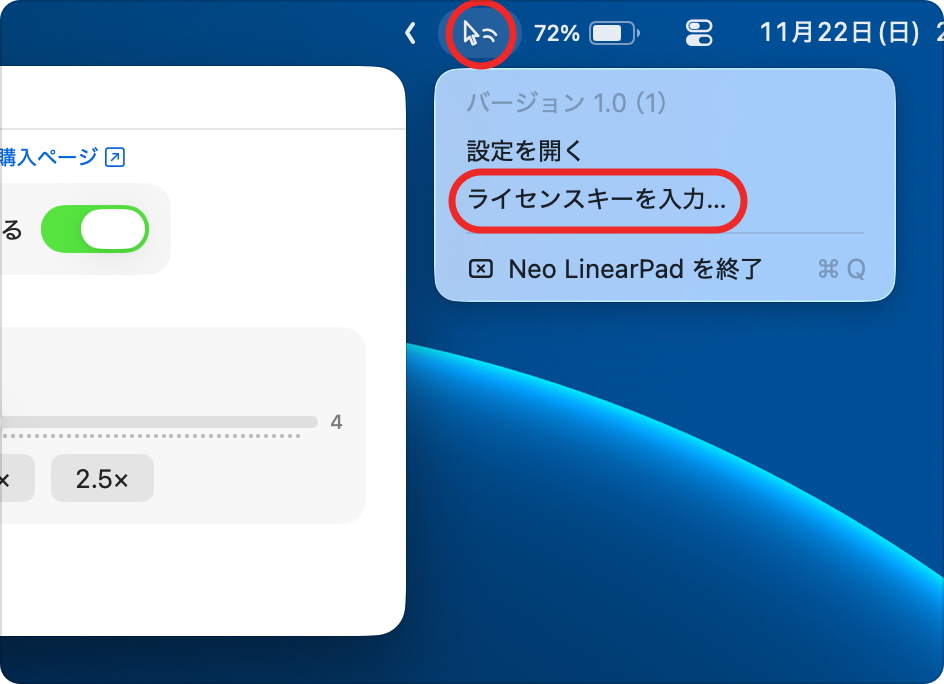
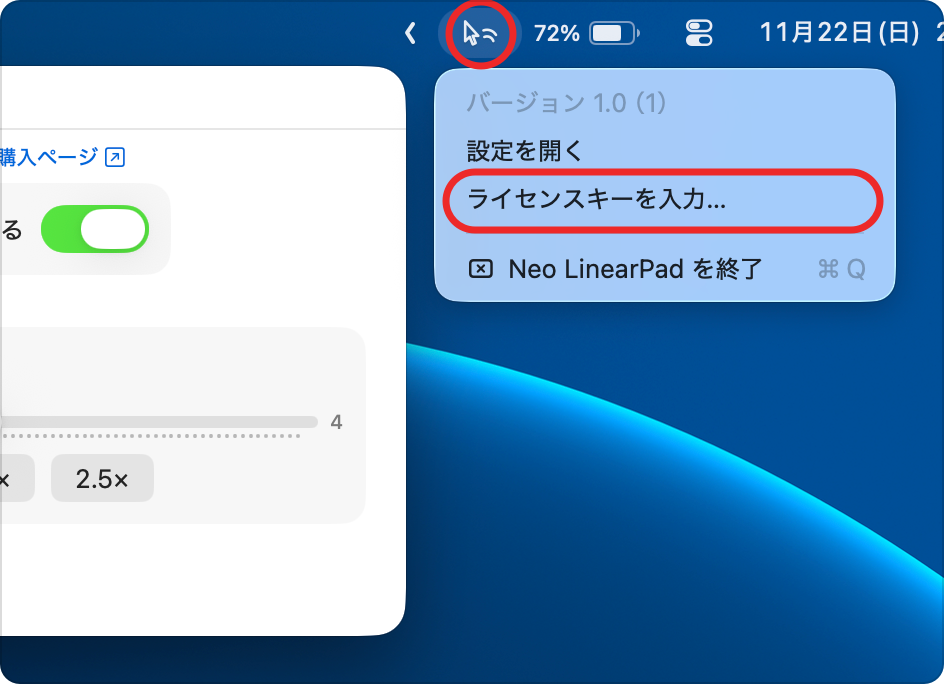
Right-click menu image: box the whole Enter License Key row

Changed region(s): [[0.768, 0.2456, 0.9523, 0.3684], [0.4608, 0.2456, 0.5222, 0.3377]]

diff --git a/ja/index.html b/ja/index.html
@@ -84,7 +84,7 @@
               <img src="../assets/guide/buy-4-done.png?v=2" alt="「ライセンスが有効になりました」の表示" loading="lazy">
             </li>
             <li>うまくいかないときは、メニューバーのアイコンを右クリックして「ライセンスキーを入力…」を選び、メールに届いたキーを貼り付けて「有効化」を押します。
-              <img src="../assets/guide/buy-5-menu.png?v=2" alt="右クリックメニューの「ライセンスキーを入力…」" loading="lazy">
+              <img src="../assets/guide/buy-5-menu.png?v=3" alt="右クリックメニューの「ライセンスキーを入力…」" loading="lazy">
             </li>
           </ol>
         </div>

diff --git a/ja/thanks.html b/ja/thanks.html
@@ -44,7 +44,7 @@
           </div>
         </div>
         <p>メニューバーの <span class="notranslate" translate="no">Neo LinearPad</span> のアイコンを右クリックし、「ライセンスキーを入力…」に貼り付けてください。</p>
-        <img class="step-image" src="../assets/guide/buy-5-menu.png?v=2" alt="右クリックメニューの「ライセンスキーを入力…」" loading="lazy">
+        <img class="step-image" src="../assets/guide/buy-5-menu.png?v=3" alt="右クリックメニューの「ライセンスキーを入力…」" loading="lazy">
         <p class="step-aside">購入完了メールにも同じキーが届いています。</p>
       </li>
     </ol>
